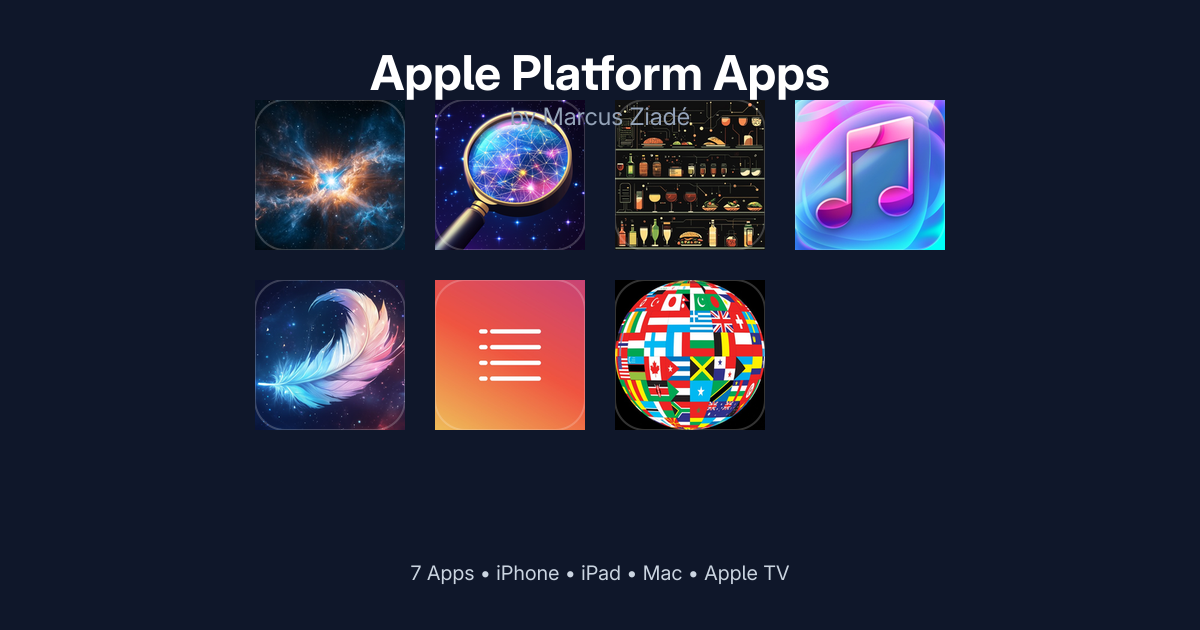
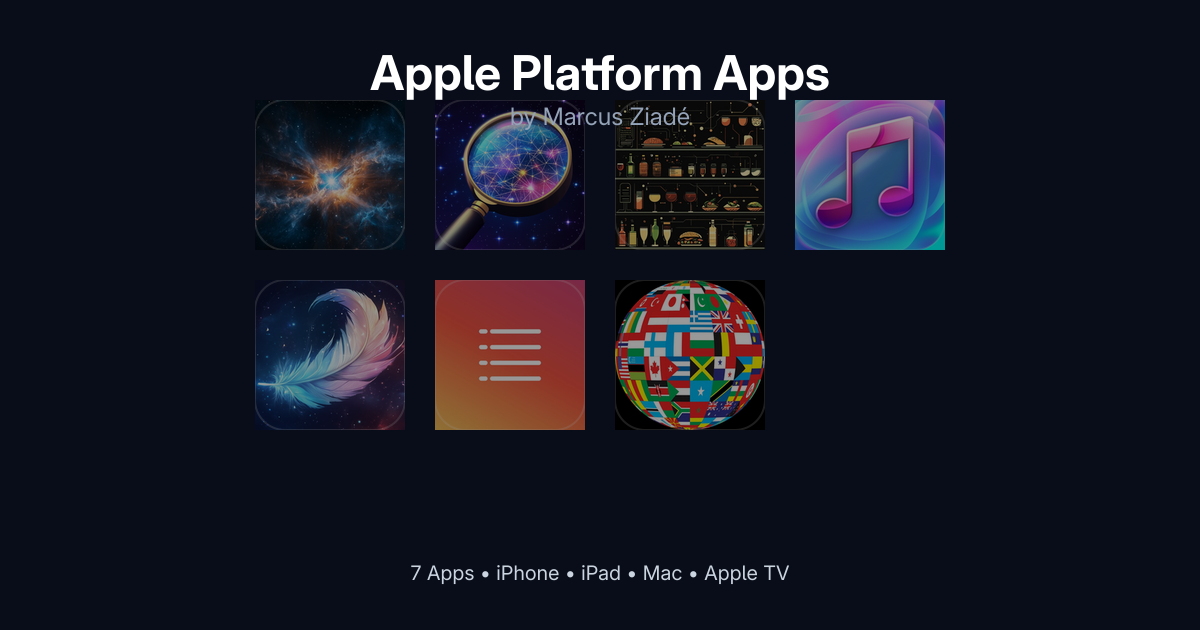
Add dimming overlay to OG image for better text readability
Added a 40% black overlay on top of the app icon grid to ensure
the white text labels are clearly visible and readable while still
showing the app icons underneath.

🤖 Generated with [Claude Code](https://claude.ai/code)

Changed region(s): [[0.185, 0.1508, 0.8017, 0.6937]]

diff --git a/scripts/generate-apps-og-grid.js b/scripts/generate-apps-og-grid.js
@@ -157,9 +157,29 @@ async function generateOGGrid() {
       left: 0
     });
     
-    // Apply all composites
-    const result = await compositeImage
-      .composite(composites)
+    // Add a semi-transparent overlay to dim the app icons
+    const overlay = await sharp({
+      create: {
+        width: ogWidth,
+        height: ogHeight,
+        channels: 4,
+        background: { r: 0, g: 0, b: 0, alpha: 0.4 } // 40% black overlay
+      }
+    })
+    .png()
+    .toBuffer();
+    
+    // Apply icon composites first
+    const withIcons = await compositeImage
+      .composite(composites.filter((_, i) => i < Math.min(icons.length, cols * rows)))
+      .toBuffer();
+    
+    // Then apply overlay and text
+    const result = await sharp(withIcons)
+      .composite([
+        { input: overlay, top: 0, left: 0 },
+        ...composites.slice(Math.min(icons.length, cols * rows))
+      ])
       .png()
       .toBuffer();
     
